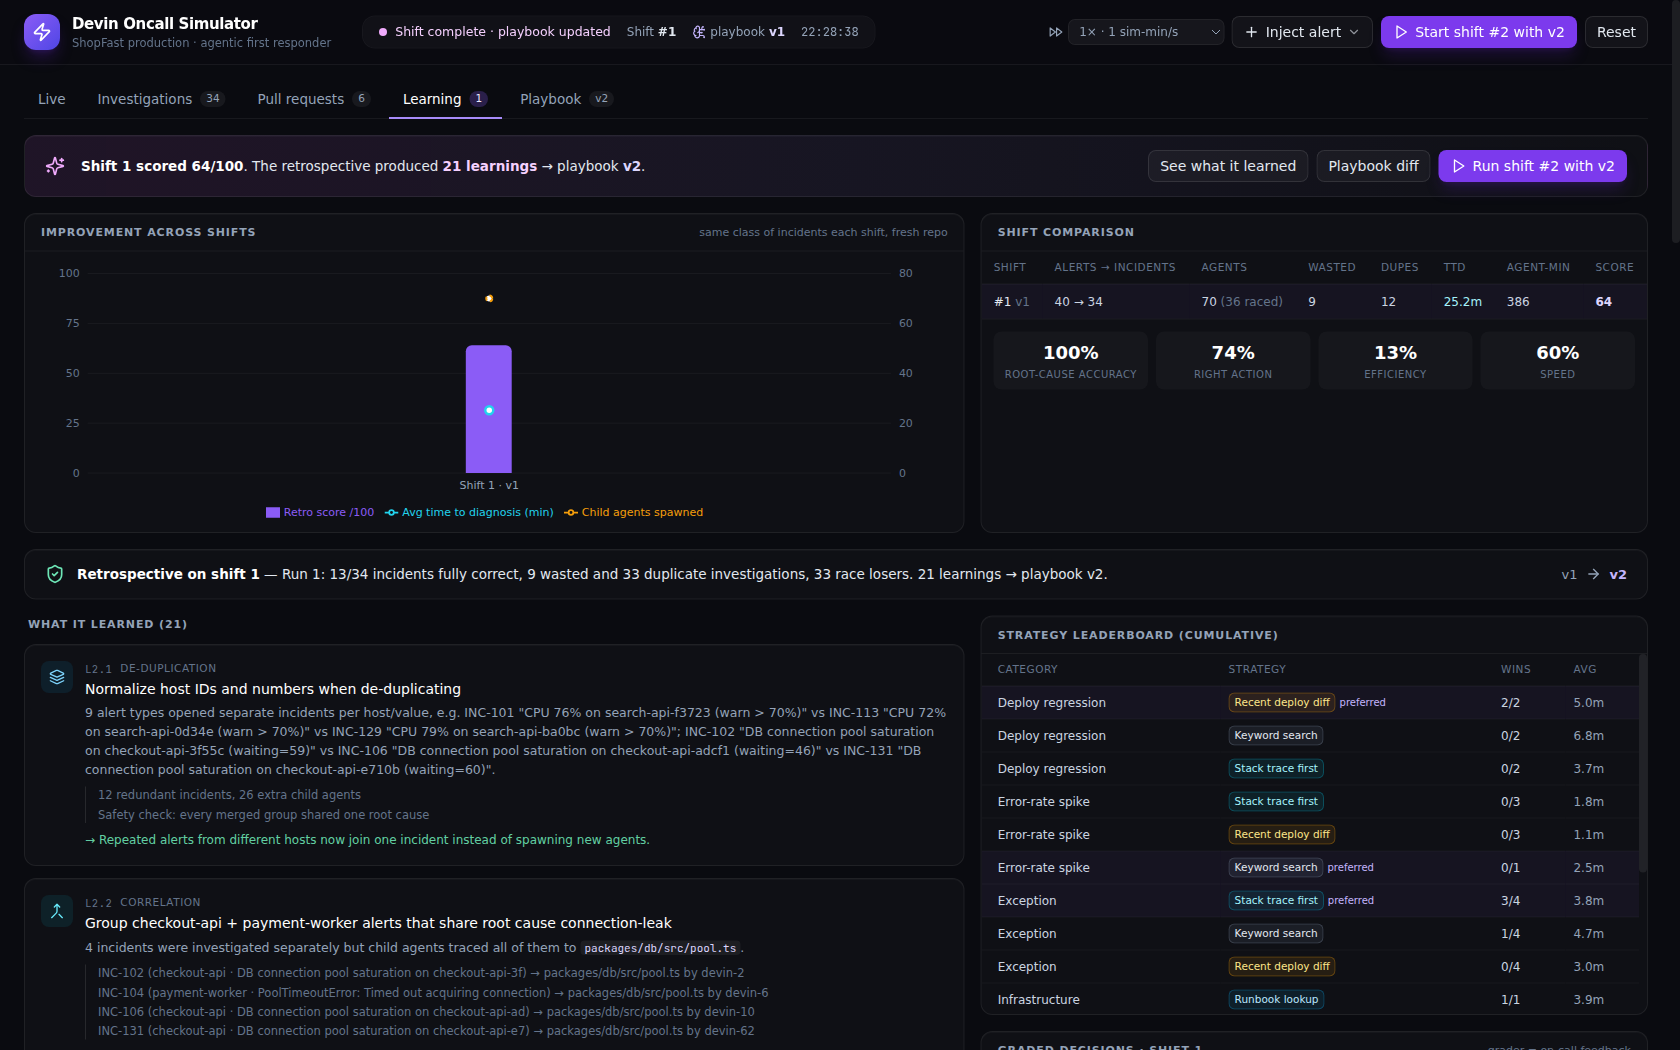
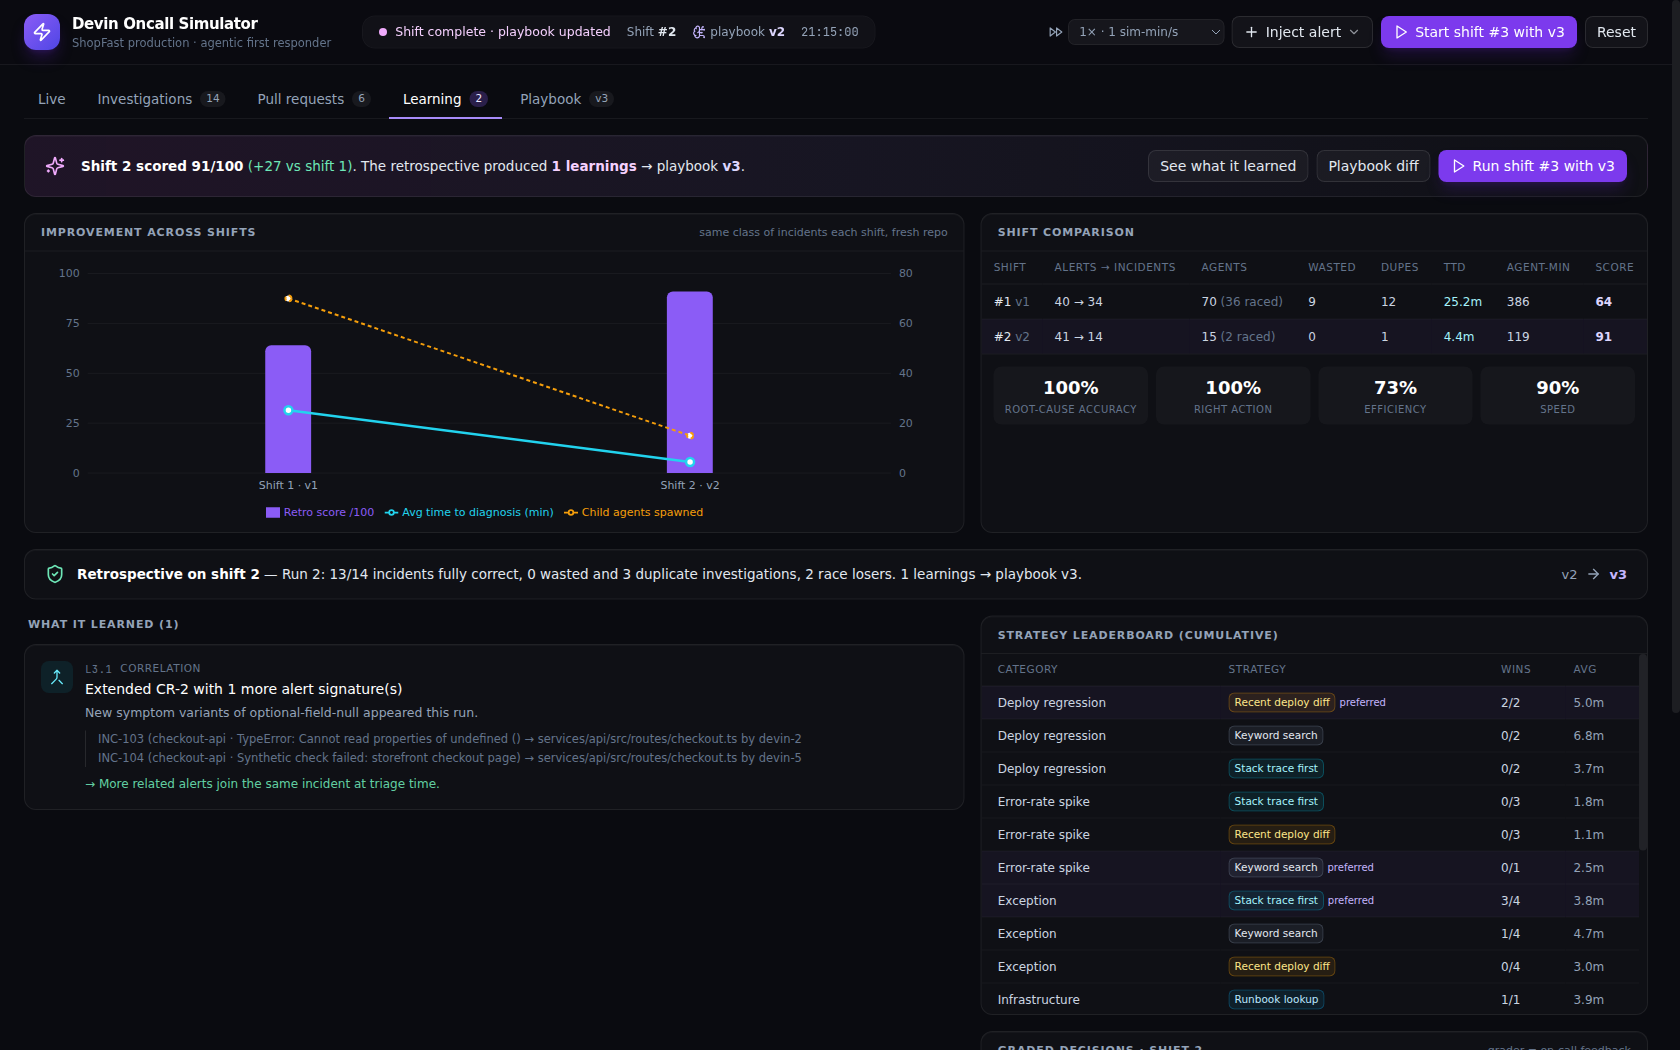
Docs: learning screenshot after two shifts

diff --git a/oncall-simulator/README.md b/oncall-simulator/README.md
@@ -6,7 +6,7 @@ No API keys, no cloud services, no cost. Everything runs on your laptop.
 
 ![Live dashboard](docs/live.png)
 
-![Learning tab after one shift](docs/learning.png)
+![Learning tab after two shifts](docs/learning.png)
 
 ---
 
